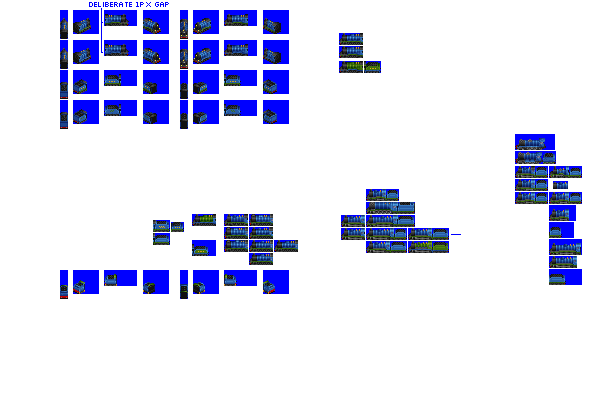
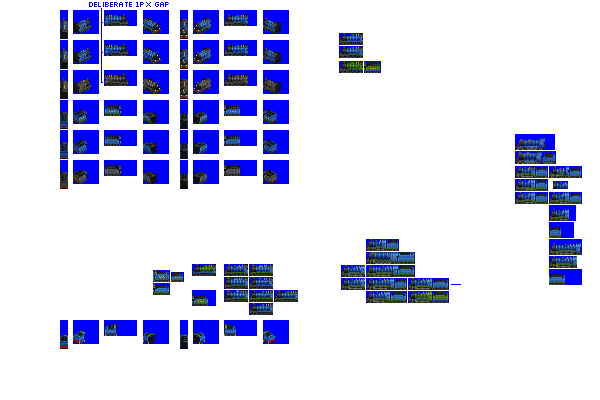
Change: add livery for Swift

diff --git a/src/vehicles/pony/swift.py b/src/vehicles/pony/swift.py
@@ -16,7 +16,7 @@ def main(**kwargs):
         },
         tractive_effort_coefficient=0.18,
         gen=2,
-        liveries=["LOWER_LINES", "STOCK_STANDARD"],
+        liveries=["LOWER_LINES", "STOCK_STANDARD", "FREIGHT_BLACK"],
         sprites_complete=True,
     )
 

diff --git a/bin/company_colour_remaps.py b/bin/company_colour_remaps.py
@@ -9,7 +9,7 @@ from polar_fox import graphics_units
 # requires a tmp dir to exist, which should be gitignored
 # set the filename
 input_filenames = [
-    "wyvern",
+    "swift",
 ]
 
 CC1 = 198
